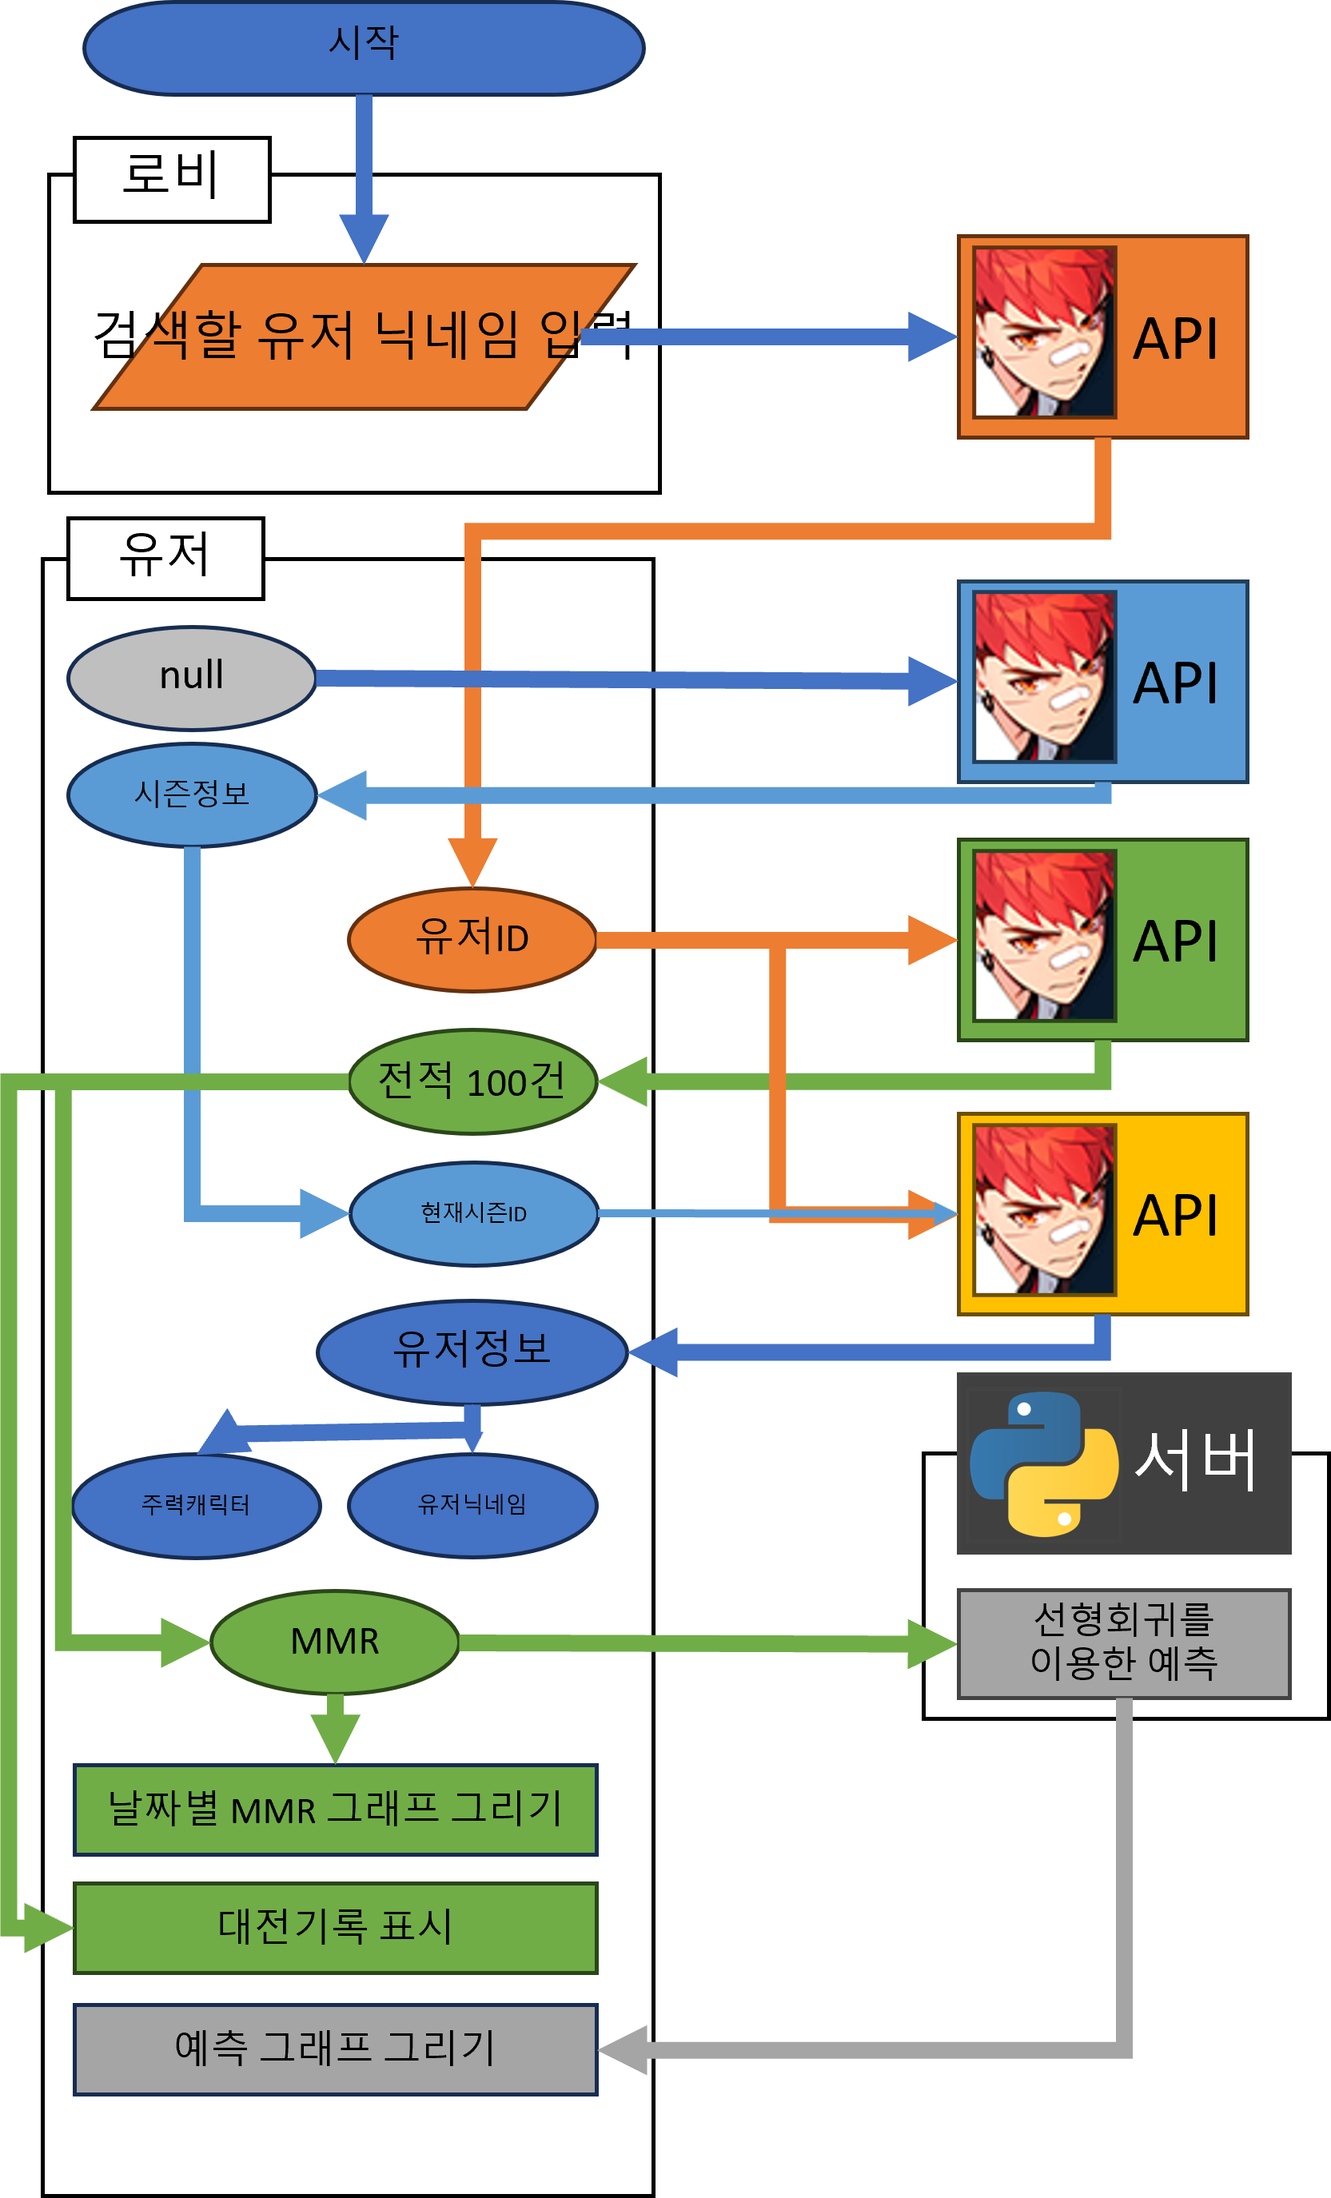
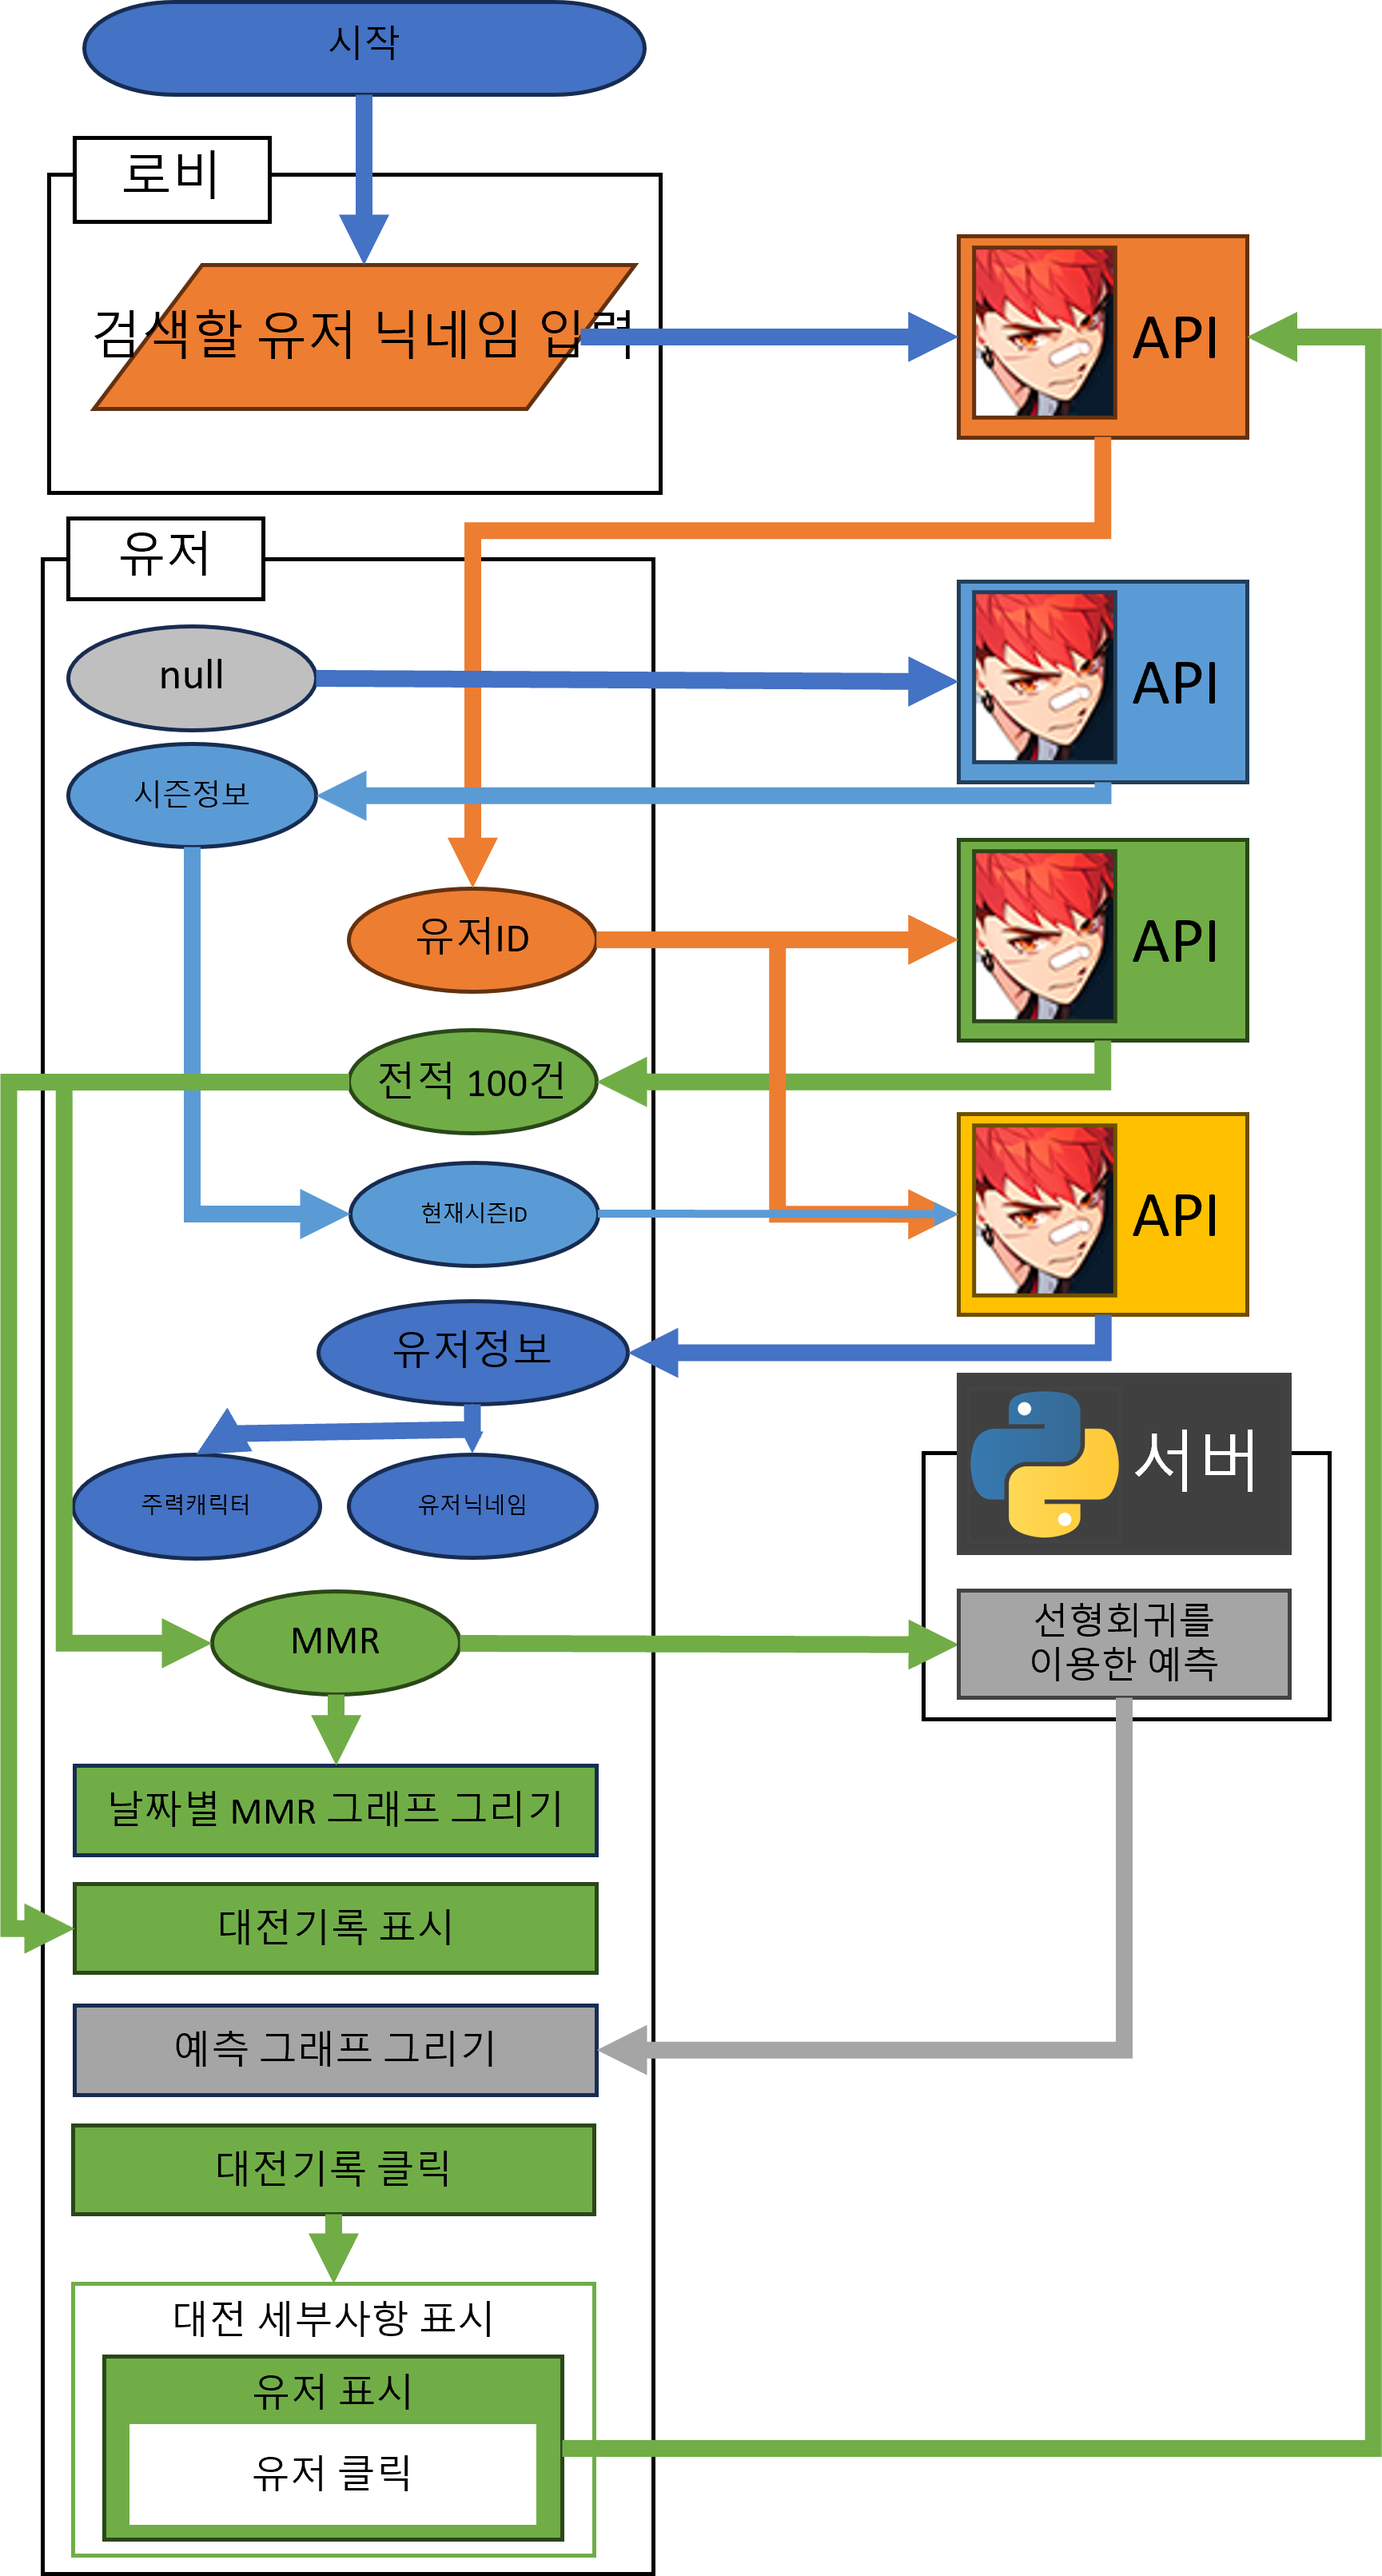
리드미 라이센스

diff --git a/README.md b/README.md
@@ -2,18 +2,19 @@
 #### 이터널리턴 티어 예측 어플리케이션
 
 ## 목차
-1. [이터널리턴 이란?](#-이터널리턴이란)
-2. [어쩌다 만들었는가](#-어쩌다-만들었는가)
-3. [시연영상](#-시연영상)
-4. [이터널리턴 OpenAPI](#-이터널리턴-OpenAPI)
-5. [사용방법](#-사용방법)
-   - [작업도구](#-작업도구)
-   - [설치 및 실행](#-설치-및-실행)
-6. [주요 기능](#-주요기능)
-7. [라이센스](#-라이센스)
-8. [참고문헌](#-참고문헌)
+1. [이터널리턴 이란?](#이터널리턴-이란)
+2. [어쩌다 만들었는가](#어쩌다-만들었는가)
+3. [시연영상](#시연영상)
+4. [이터널리턴 OpenAPI](#이터널리턴-OpenAPI)
+5. [사용방법](#사용방법)
+   - [작업도구](#작업도구)
+   - [설치 및 실행](#설치-및-실행)
+6. [주요 기능](#주요-기능)
+7. [라이센스](#라이센스)
+8. [참고문헌](#참고문헌)
 
-### 1. [<u>*이터널리턴*</u>](https://playeternalreturn.com/main?hl=ko-KR) :link: 이란?
+### 1. 이터널리턴 이란?
+[<u>이터널리턴</u>](https://playeternalreturn.com/main?hl=ko-KR)
 ![이터널리턴배경](/readmeimgs/이터널리턴배경.png)<br>
 - 넵튠의 자회사 님블뉴런에서 만든 쿼터뷰 배틀로얄
 - 게임당 최대 24명의 플레이어가 참여하여 파밍한 물품들을
@@ -66,17 +67,24 @@
    - 실행 버튼 누르기<br>![세팅1](/readmeimgs/세팅1.png)
    - 성공적 실행!<br>![실행예시](/readmeimgs/실행예시.png)
 </details>
-<details>
 
+<details>
 <summary>2. 모바일 기기에서 실행하기</summary>
 
    - [모바일 기기 연결하기](https://developer.android.com/studio/run/device?hl=ko):link:
       <br>![모바일 기기 선택](/readmeimgs/기기연결.png)
-   - 성공적 연결!(시스템 테마 : dark) ![모바일 실행](/readmeimgs/모바일실행.jpg):link:
+   - 성공적 연결!(시스템 테마 : dark) ![모바일 실행](/readmeimgs/모바일실행.jpg)
 </details>
 
 ###### apk를 이용해서 설치하기
-- ERHistoryViwer/ERHistoryViwer/app/release/app-release.apk 설치
+<details>
+<summary>1. apk를 이용해 설치하기</summary>
+
+  - 프로젝트 수정 시 [apk빌드하기](https://learn2you.tistory.com/82):link:
+  - ERHistoryViewer\ERHistoryViewer\app\release\app-release.apk 생성
+  - 모바일 기기에서 apk파일 설치
+</details>
+
 
 ### 6. 주요 기능
 <details>
@@ -99,6 +107,9 @@
     + 현 시즌 랭크게임의 날짜별 MMR 변동 그래프
 - MMR 예측그래프 표시
     + [Python서버](#-파이썬서버)를 이용한 시즌 종료일까지의 MMR추세 그래프 
+- 전적 상세 보기
+    + 해당 게임의 플레이어 표시
+    + 플레이어 즉시 검색
 
 ##### 파이썬 서버
 - 클라이언트로 부터 MMR 획득
@@ -114,17 +125,15 @@
     - 안드로이드 스튜디오 내 thd_Request.java 파일의 serverURL을 [생성된IP]로 변경
     </details>
 
-### 7. 라이센스(작성 예정)
+### 7. 라이센스
 
+Copyright 2020 Philipp Jahoda
 
+Licensed under the Apache License, Version 2.0 (the "License"); you may not use this file except in compliance with the License. You may obtain a copy of the License at
 
+http://www.apache.org/licenses/LICENSE-2.0
 
-
-
-
-
-
-
+Unless required by applicable law or agreed to in writing, software distributed under the License is distributed on an "AS IS" BASIS, WITHOUT WARRANTIES OR CONDITIONS OF ANY KIND, either express or implied. See the License for the specific language governing permissions and limitations under the License.
 
 
 
@@ -141,7 +150,8 @@
 - [안드로이드 스튜디오 HttpURLConnection](https://android-uni.tistory.com/9):link:
 - [안드로이드 스튜디오 Thread 사용방법](https://itmining.tistory.com/4):link:
 - [자바 csv파일 입출력](https://bibi6666667.tistory.com/200):link:
-- [안드로이드 스튜디오 빌드하기](https://samgupsal.tistory.com/35):link:
+- [안드로이드 스튜디오 abb 빌드하기](https://samgupsal.tistory.com/35):link:
+- [안드로이드 스튜디오 apk 빌드하기](https://learn2you.tistory.com/82):link:
 #### 서버
 - [우분투 가상환경 만들기](https://ssilook.tistory.com/entry/%EA%B0%80%EC%83%81%ED%99%98%EA%B2%BD-%EC%9A%B0%EB%B6%84%ED%88%ACUbuntu-%EA%B0%80%EC%83%81%ED%99%98%EA%B2%BD-%EB%A7%8C%EB%93%A4%EA%B8%B0):link:
 - [우분투 백그라운드 프로세스 실행](https://bongjacy.tistory.com/entry/%EB%B0%B1%EA%B7%B8%EB%9D%BC%EC%9A%B4%EB%93%9C%EC%97%90%EC%84%9C-%ED%8C%8C%EC%9D%B4%EC%8D%AC-%EC%8B%A4%ED%96%89%ED%95%98%EB%8A%94-%EB%B0%A9%EB%B2%95):link:
